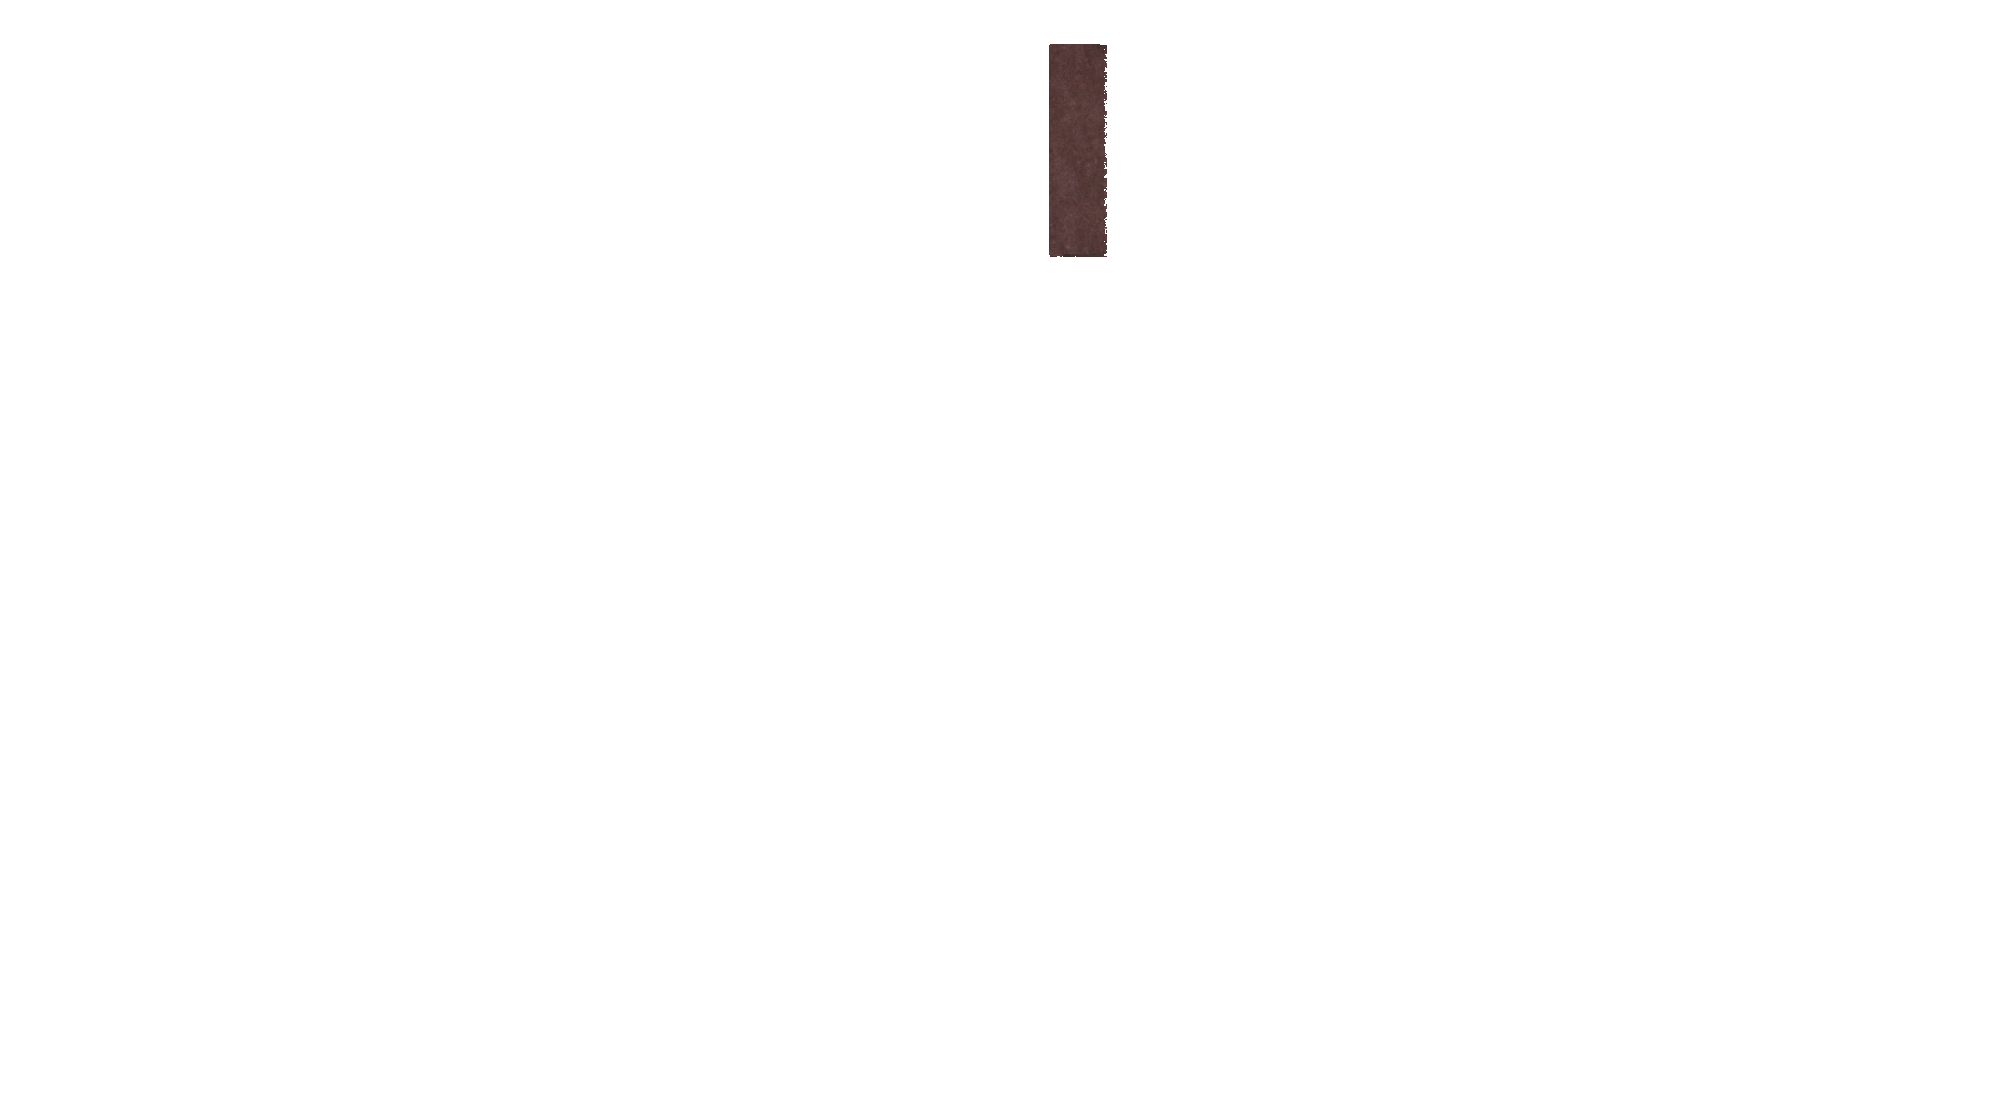
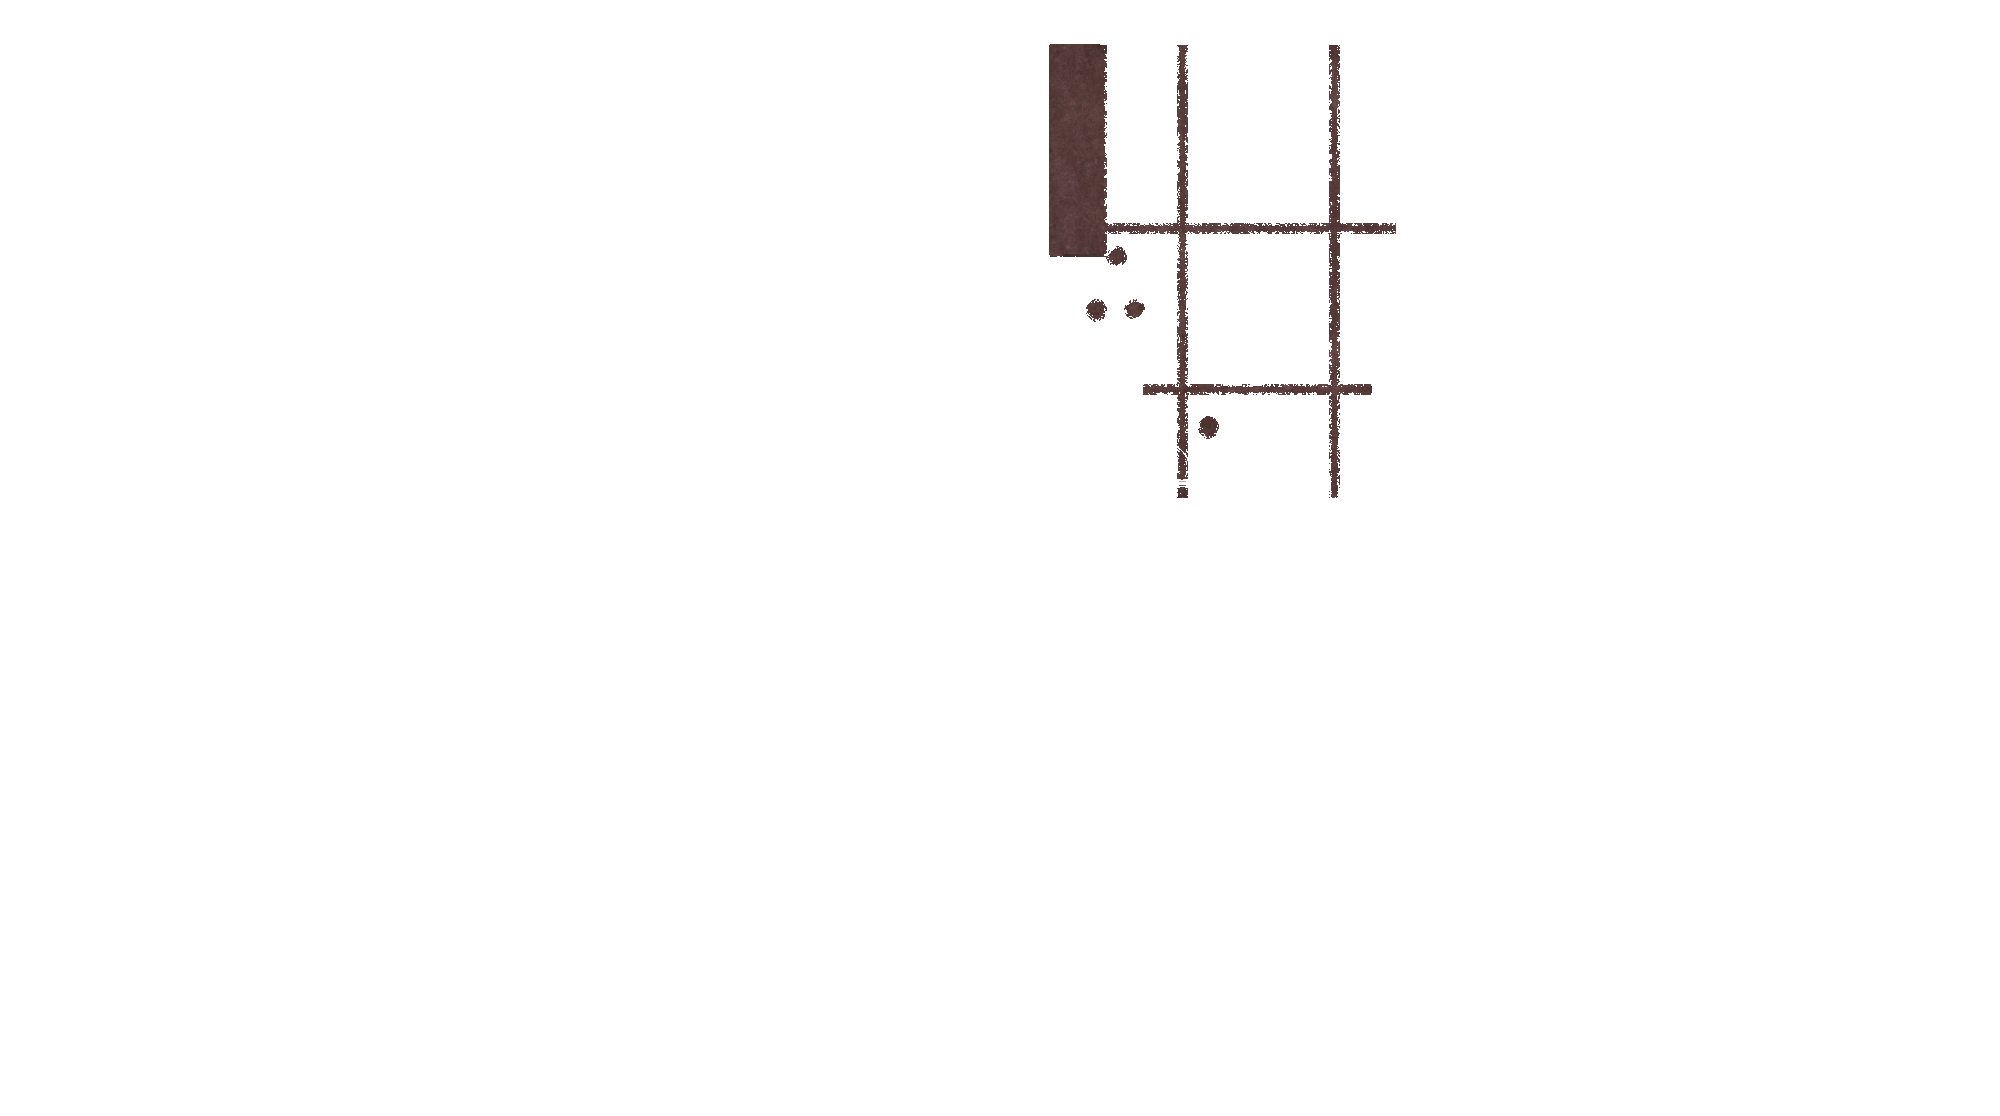
Casa D Subsolo: retoque 2, juntas gigantes e manchas do granito do depósito
Claude-Session: https://claude.ai/code/session_01Mm19WX3KoLN1nXMDF5Ay3F

Changed region(s): [[0.558, 0.0305, 0.713, 0.4265], [0.527, 0.2742, 0.558, 0.3047]]

diff --git a/projetos/POE642_CasaA/scripts/retoque_subsolo_casad.py b/projetos/POE642_CasaA/scripts/retoque_subsolo_casad.py
@@ -9,6 +9,8 @@ a planta do Subsolo cair exatamente sob a do Térreo.
 Itens (o mapa está em POE642_CasaD/renders/POE642_CasaD_PH_Subsolo_v1_erros.jpg):
 1. Depósito: a faixa areia que o motor pôs junto à parede da esquerda (um armário que não existe no
    PDF) vira o granito do piso.
+2. Depósito: as juntas de placas gigantes (~1,9 m) e as quatro manchas claras do granito saem; o piso
+   fica contínuo, como no DCE 1 e no WC DCE (pedido do usuário).
 
 Uso (da pasta projetos/):
   python3 POE642_CasaA/scripts/retoque_subsolo_casad.py POE642_CasaD/renders/POE642_CasaD_PH_Subsolo_v1_render.webp \
@@ -36,18 +38,30 @@ FAIXA_DEPOSITO = {
     "lum_min": 45,                         # a parede (escura) não entra na luz nem muda
 }
 
+JUNTAS_DEPOSITO = {
+    "ret": (1046, 42, 1398, 498),          # o depósito inteiro (até a parede da academia)
+    "faixas": [(1180, 44, 1185, 497), (1332, 44, 1337, 497),        # juntas verticais (x 1182 e 1334)
+               (1100, 226, 1396, 231), (1143, 387, 1373, 392)],     # horizontais (y 228 e 389)
+    "manchas": [(1112, 252, 9, 8), (1092, 305, 9, 10), (1130, 305, 9, 9), (1204, 422, 9, 10)],
+    "lum": (45, 200),                      # só o granito e as juntas mudam; a parede e os arcos ficam
+    "folha": (1141, 479, 1199, 488),       # a folha da porta no fim da escada (com o contorno) não muda
+}
 
-def apagar_largo(out, ret, mascara, fontes, sigma=4.0, borda=0.8, lum_min=None):
+
+def apagar_largo(out, ret, mascara, fontes, sigma=4.0, borda=0.8, lum_min=None, lum_max=None):
     """Como o apagar do Térreo, para áreas largas: a luz do entorno (por canal) vem da convolução
     normalizada em várias escalas (interpolar), que cobre o miolo da máscara; com lum_min, a parede
-    (escura) não entra na luz e não muda."""
+    (escura) não entra na luz e não muda; com lum_max, peças claras (folhas de porta) não entram na luz."""
     x0, y0, x1, y1 = ret
     h, w = y1 - y0, x1 - x0
     reg = out[y0:y1, x0:x1].astype(np.float32)
     claro = reg.mean(axis=2) > lum_min if lum_min is not None else np.ones((h, w), bool)
     m = cv2.GaussianBlur(mascara.astype(np.float32), (0, 0), borda) if borda else mascara.astype(np.float32)
     m = np.maximum(m, mascara.astype(np.float32)) * claro
-    luz = interpolar(reg, ~mascara & claro, sigma)
+    amostra = ~mascara & claro
+    if lum_max is not None:
+        amostra &= reg.mean(axis=2) < lum_max
+    luz = interpolar(reg, amostra, sigma)
     tex = textura(out, fontes, h, w)
     out[y0:y1, x0:x1] = np.clip(reg * (1 - m[..., None]) + tex * luz * m[..., None], 0, 255).astype(np.uint8)
     return out
@@ -64,6 +78,23 @@ def faixa_deposito(out):
     return out
 
 
+def juntas_deposito(out):
+    q = JUNTAS_DEPOSITO
+    x0, y0, x1, y1 = q["ret"]
+    m = np.zeros((y1 - y0, x1 - x0), np.uint8)
+    for fx0, fy0, fx1, fy1 in q["faixas"]:
+        m[fy0 - y0:fy1 - y0, fx0 - x0:fx1 - x0] = 1
+    for mx, my, mw, mh in q["manchas"]:
+        cv2.ellipse(m, (mx + mw // 2 - x0, my + mh // 2 - y0), (mw // 2 + 3, mh // 2 + 3), 0, 0, 360, 1, -1)
+    lum = out[y0:y1, x0:x1].astype(np.float32).mean(axis=2)
+    m = m.astype(bool) & (lum > q["lum"][0]) & (lum < q["lum"][1])
+    fx0, fy0, fx1, fy1 = q["folha"]
+    m[fy0 - y0:fy1 - y0, fx0 - x0:fx1 - x0] = False
+    out = apagar_largo(out, q["ret"], m, GRANITO, sigma=2.0, borda=0.6, lum_min=q["lum"][0], lum_max=110)
+    print(f"    juntas e manchas do depósito fora: {int(m.sum())} px")
+    return out
+
+
 def main():
     ap = argparse.ArgumentParser(description=__doc__, formatter_class=argparse.RawDescriptionHelpFormatter)
     ap.add_argument("render", type=Path)
@@ -75,6 +106,8 @@ def main():
     out = orig.copy()
     print("[1] depósito: faixa areia inventada")
     out = faixa_deposito(out)
+    print("[2] depósito: juntas gigantes e manchas claras")
+    out = juntas_deposito(out)
 
     args.saida.mkdir(parents=True, exist_ok=True)
     cv2.imwrite(str(args.saida / f"{args.nome}.png"), out)

diff --git a/projetos/POE642_HANDOFF_SESSAO_LOCAL.md b/projetos/POE642_HANDOFF_SESSAO_LOCAL.md
@@ -429,4 +429,4 @@ python texturizar_base.py Subsolo ../../POE642_CasaC/bases/POE642_CasaC_BASE_Sub
 - **Render v1:** `renders/POE642_CasaD_PH_Subsolo_v1_render.webp` (2000 x 1116). O motor manteve o layout, mas aproximou a planta (~2,73 x a base reduzida a 2000 px); o alinhamento render→base deu 68 pontos e erro mediano de 0,74 px. O elevador do Subsolo cai a 1 px do elevador do Térreo na base de 6000 px: as duas folhas têm o mesmo enquadramento. Mapa dos erros: `renders/POE642_CasaD_PH_Subsolo_v1_erros.jpg`. Decisões do usuário: banco da sauna em Bege Bahia; juntas gigantes do depósito removidas; a imagem final na escala e na posição do Térreo.
 - **Retoque** (`POE642_CasaA/scripts/retoque_subsolo_casad.py`, sem IA; saída `renders/POE642_CasaD_PH_Subsolo_v1_retocado.png`, `_camada.png` e `_previa.jpg`):
   1. depósito: a faixa areia do motor junto à parede da esquerda (armário que não existe no PDF) virou granito (textura tecida do próprio piso, luz do entorno em várias escalas).
-
+  2. depósito: as juntas de placas gigantes (~1,9 m; linhas claras de 2 px em x 1182 e 1334, y 228 e 389) e as quatro manchas claras saíram (pedido do usuário); a folha da porta no fim da escada e os arcos ficam, e a luz do entorno não usa as peças claras.
